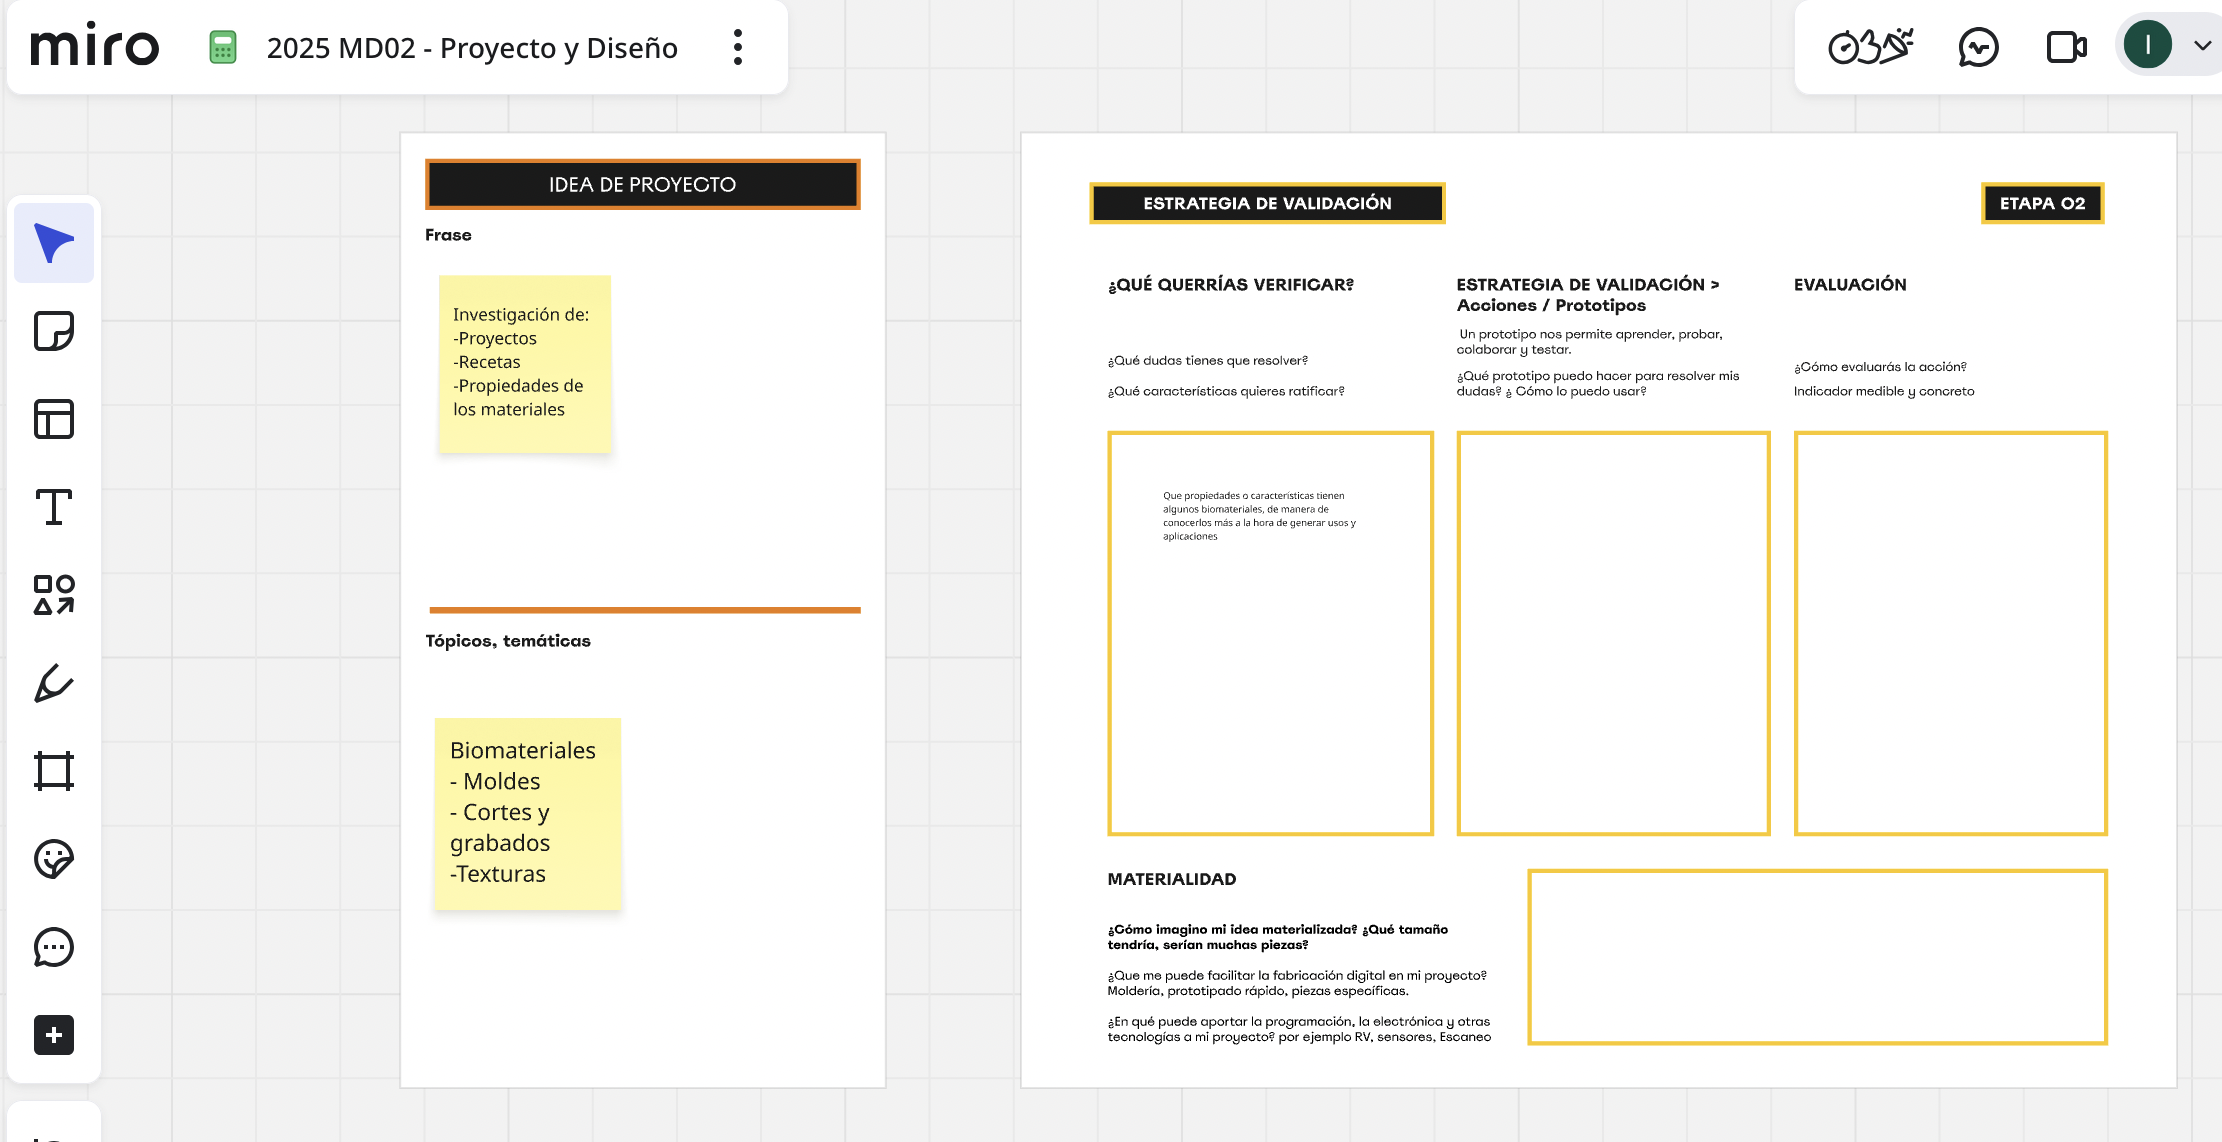
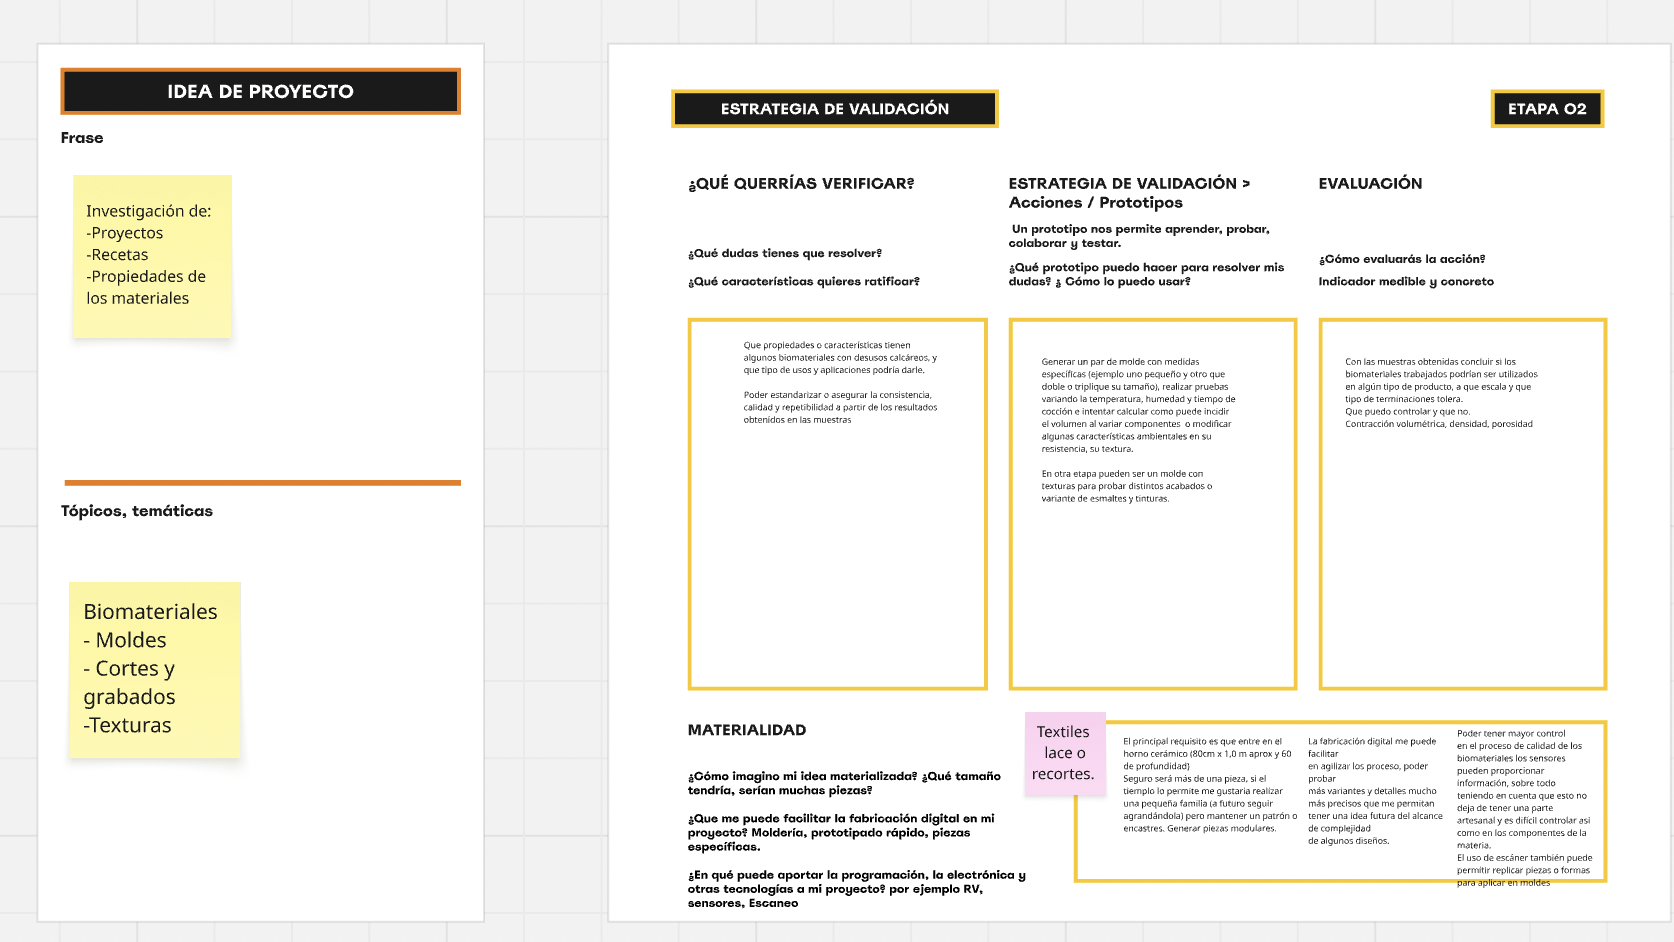
MD03

diff --git a/docs/diseno/md03.md b/docs/diseno/md03.md
@@ -1,0 +1,26 @@
+---
+hide:
+    - toc
+---
+
+# MD03
+
+En este módulo comencé repasando los módulos anteriores de diseño MD01/MD02. Completé un poco más el Miro, las fichas anteriores, ya que en la medida que avanzo voy aclarándome hacia atrás, del mismo modo en que voy definiendo por donde seguir.
+Partiendo desde el “qué” y “para quien” fui identificando y desarrollando mi idea de experimentar arcillas con otros materiales naturales en desuso. 
+
+Prototipar moldes y generar una muestra de arcillas para concluir cuales podrían ser sus aplicaciones futuras, que problema podría solucionar o apaliar, y que impacto territorial pueda tener.
+
+Como será utilizado con las distintas tecnologías de fabricación digital vistas a lo largo de la especialización. Cuales de ellas me permiten lograr muestras de calidad, y mejorar los procesos productivos y sus ciclos de vida.
+
+Y así, intentar concluir si puede llegar a dar una solución al problema de algunos residuos que en Uruguay se generan diariamente, con carácter innovador en su aplicación, pudiendo darle otros usos y tomando conciencia de nuestros hábitos de consumo.
+
+
+![](../images/MD03/D3-1.png)
+![](../images/MD03/D3-2.png)
+![](../images/MD03/D3-3.png)
+
+
+
+
+
+
